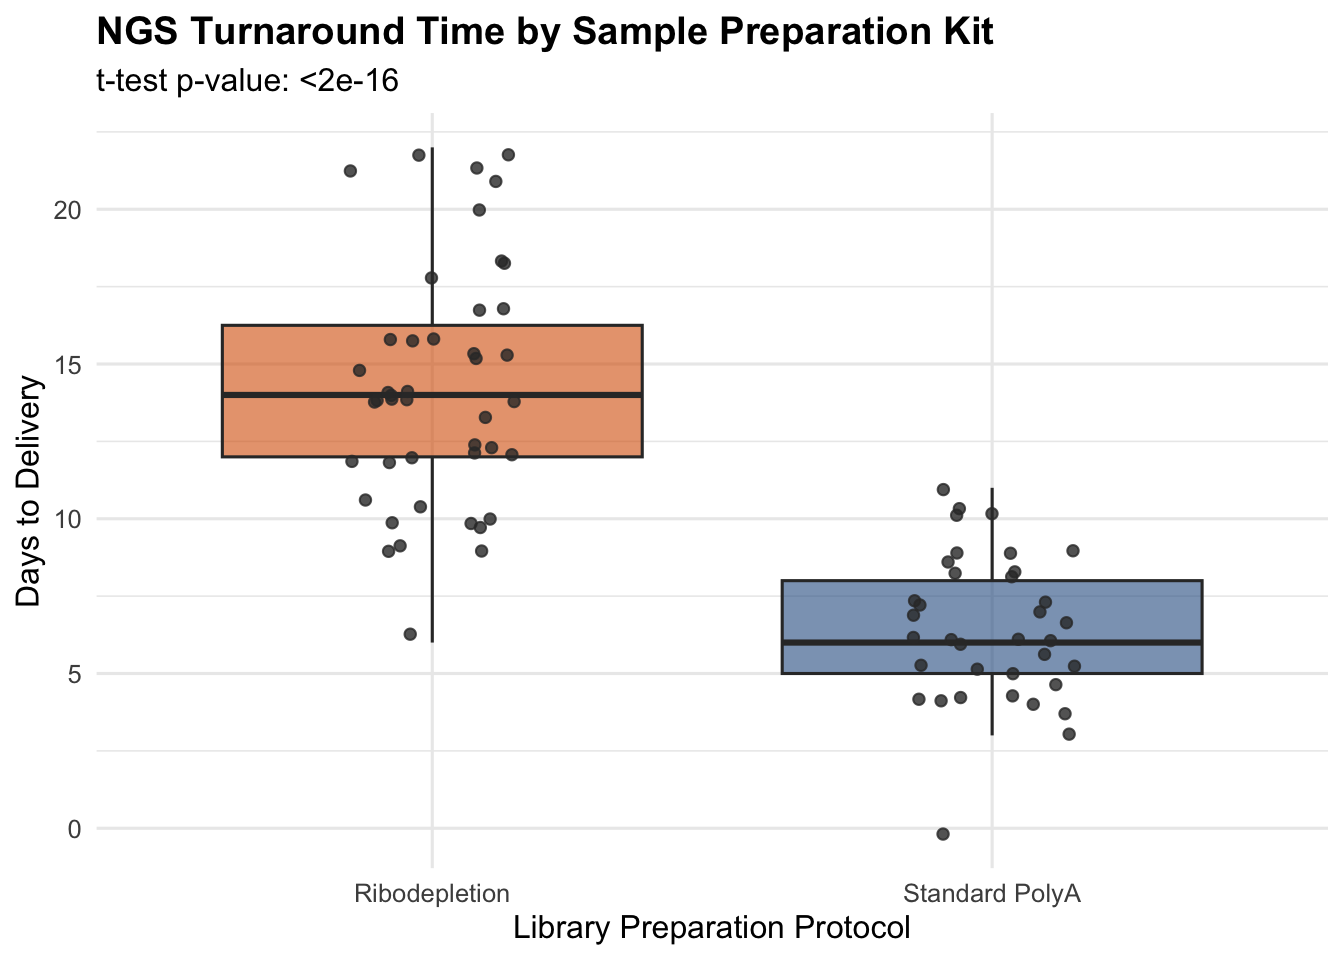
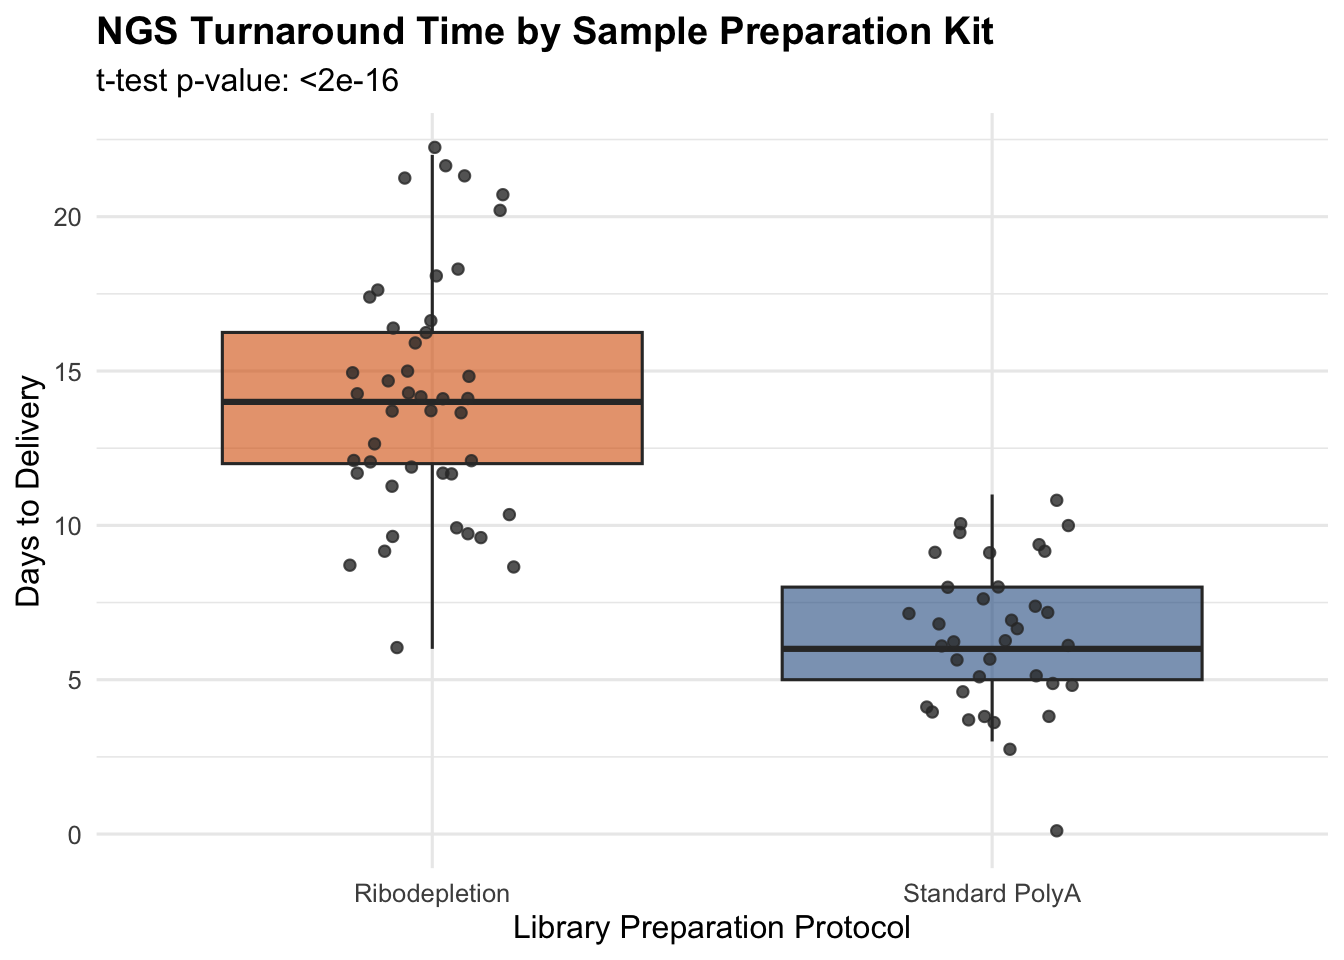
Built site for gh-pages

diff --git a/R-coding.html b/R-coding.html
@@ -7,7 +7,7 @@
 <meta name="viewport" content="width=device-width, initial-scale=1.0, user-scalable=yes">
 
 <meta name="author" content="Devon J. Boland">
-<meta name="dcterms.date" content="2026-10-01">
+<meta name="dcterms.date" content="2026-10-06">
 
 <title>3&nbsp; R Syntax &amp; Core Data Structures – SC3 ABRF R Workshop</title>
 <style>
@@ -228,7 +228,7 @@ pre > code.sourceCode > span > a:first-child::before { text-decoration: underlin
     <div>
     <div class="quarto-title-meta-heading">Published</div>
     <div class="quarto-title-meta-contents">
-      <p class="date">October 1, 2026</p>
+      <p class="date">October 6, 2026</p>
     </div>
   </div>
   
@@ -243,18 +243,18 @@ pre > code.sourceCode > span > a:first-child::before { text-decoration: underlin
 <p><a href="./R-coding.html" class="btn btn-primary">Download this Notebook (R-Introductions.qmd)</a></p>
 <section id="r-basics" class="level2" data-number="3.1">
 <h2 data-number="3.1" class="anchored" data-anchor-id="r-basics"><span class="header-section-number">3.1</span> R Basics</h2>
-<p>Congratualtions, you have made it through the through the fundamentals of setting up your own personal R environemnt, and we have hardly done any coding. If you have managed to not fall asleep so far, get ready for the excitement of writting code! <strong>Join the dark side of the lab, and feel it’s power</strong> (<em>read in a legally distinct and not trademarkable character’s voice</em>)!</p>
+<p>Congratulations, you have made it through the through the fundamentals of setting up your own personal R environment, and we have hardly done any coding. If you have managed to not fall asleep so far, get ready for the excitement of writing code! <strong>Join the dark side of the lab, and feel it’s power</strong> (<em>read in a legally distinct and not trademarkable character’s voice</em>)!</p>
 <section id="hello-world" class="level3" data-number="3.1.1">
 <h3 data-number="3.1.1" class="anchored" data-anchor-id="hello-world"><span class="header-section-number">3.1.1</span> Hello, world!</h3>
-<p>In all seriousness though, coding can be as simple or complex as you make it. For instance, we are going to begin by writing the first program everyone learns in any programming langueage, printing the <code>Hello, world!</code> statement. We will use the <code>print()</code> function from base R. We will go over each part of it shortly. Begin, typing the following in your R script:</p>
+<p>In all seriousness though, coding can be as simple or complex as you make it. For instance, we are going to begin by writing the first program everyone learns in any programming language, printing the <code>Hello, world!</code> statement. We will use the <code>print()</code> function from base R. We will go over each part of it shortly. Begin, typing the following in your R script:</p>
 <div class="cell">
 <div class="code-copy-outer-scaffold"><div class="sourceCode cell-code" id="cb1"><pre class="sourceCode r code-with-copy"><code class="sourceCode r"><span id="cb1-1"><a href="#cb1-1" aria-hidden="true" tabindex="-1"></a><span class="fu">print</span>(<span class="st">"Hello, world!"</span>)</span></code></pre></div><button title="Copy to Clipboard" class="code-copy-button"><i class="bi"></i></button></div>
 <div class="cell-output cell-output-stdout">
 <pre><code>[1] "Hello, world!"</code></pre>
 </div>
 </div>
-<p>As you can see the statement “Hello, world!” was output (or printed, hence the function name) below in our R console. We called the <code>print()</code> function which takes as input a string (text), number, or even a variable as input. This <code>print()</code> function is used a lot across many programming langueages. You have commonly encountered it in your day-to-day jobs. When coding it is often used to print a status update, error message, warning, etc. to the user as feedback so we aren’t just starting at a static screen wondering if something has happened or we have messed up.</p>
-<p>Now we are going to add a layer to our <code>print()</code> code from earlier. What if we wanted to store a message to ourselves, say remember to drink our coffee while it is still hot, and view it later. We achieve this by creating a <code>vairable</code> and casting (storing) a value in it using the <code>&lt;-</code> operator.</p>
+<p>As you can see the statement “Hello, world!” was output (or printed, hence the function name) below in our R console. We called the <code>print()</code> function which takes as input a string (text), number, or even a variable as input. This <code>print()</code> function is used a lot across many programming languages. You have commonly encountered it in your day-to-day jobs. When coding it is often used to print a status update, error message, warning, etc. to the user as feedback so we aren’t just starting at a static screen wondering if something has happened or we have messed up.</p>
+<p>Now we are going to add a layer to our <code>print()</code> code from earlier. What if we wanted to store a message to ourselves, say remember to drink our coffee while it is still hot, and view it later. We achieve this by creating a <code>variable</code> and casting (storing) a value in it using the <code>&lt;-</code> operator.</p>
 <div class="cell">
 <div class="code-copy-outer-scaffold"><div class="sourceCode cell-code" id="annotated-cell-2"><pre class="sourceCode r code-annotation-code code-with-copy code-annotated"><code class="sourceCode r"><a class="code-annotation-anchor" data-target-cell="annotated-cell-2" data-target-annotation="1" onclick="event.preventDefault();">1</a><span id="annotated-cell-2-1" class="code-annotation-target"><a href="#annotated-cell-2-1" aria-hidden="true" tabindex="-1"></a>note <span class="ot">&lt;-</span> <span class="st">"Remember, to drink your coffee, while it is hot!"</span></span>
 <span id="annotated-cell-2-2"><a href="#annotated-cell-2-2" aria-hidden="true" tabindex="-1"></a><span class="fu">print</span>(<span class="st">"Here we are going to print our note below:"</span>)</span>
@@ -263,7 +263,7 @@ pre > code.sourceCode > span > a:first-child::before { text-decoration: underlin
 <dl class="code-annotation-container-grid">
 <dt data-target-cell="annotated-cell-2" data-target-annotation="1">1</dt>
 <dd>
-<span data-code-cell="annotated-cell-2" data-code-lines="1" data-code-annotation="1">this line stores our message about our coffee into the vaiable “note”.</span>
+<span data-code-cell="annotated-cell-2" data-code-lines="1" data-code-annotation="1">this line stores our message about our coffee into the variable “note”.</span>
 </dd>
 <dt data-target-cell="annotated-cell-2" data-target-annotation="2">2</dt>
 <dd>
@@ -280,7 +280,7 @@ pre > code.sourceCode > span > a:first-child::before { text-decoration: underlin
 </section>
 <section id="vector-the-simplest-way-to-store-multiple-data" class="level3" data-number="3.1.2">
 <h3 data-number="3.1.2" class="anchored" data-anchor-id="vector-the-simplest-way-to-store-multiple-data"><span class="header-section-number">3.1.2</span> Vector, the simplest way to store multiple data</h3>
-<p>Above we stored our first data, a single string into the variable <code>note</code>. But what if we wanted to store a a list of numbers? In R, a series of data is called a <strong>vector</strong> (in R we also have list objects, which behave differently but can look similar). We begin a vector using the <code>c()</code> and separating elements in the vector with a <strong>comma</strong>. Below, let’s create a vector of numbers 1-5.</p>
+<p>Above we stored our first data, a single string into the variable <code>note</code>. But what if we wanted to store a list of numbers? In R, a series of data is called a <strong>vector</strong> (in R we also have list objects, which behave differently but can look similar). We begin a vector using the <code>c()</code> and separating elements in the vector with a <strong>comma</strong>. Below, let’s create a vector of numbers 1-5.</p>
 <div class="cell">
 <div class="code-copy-outer-scaffold"><div class="sourceCode cell-code" id="cb4"><pre class="sourceCode r code-with-copy"><code class="sourceCode r"><span id="cb4-1"><a href="#cb4-1" aria-hidden="true" tabindex="-1"></a>num_vec <span class="ot">&lt;-</span> <span class="fu">c</span>(<span class="dv">1</span>,<span class="dv">2</span>,<span class="dv">3</span>,<span class="dv">4</span>,<span class="dv">5</span>)</span>
 <span id="cb4-2"><a href="#cb4-2" aria-hidden="true" tabindex="-1"></a><span class="fu">print</span>(num_vec)</span></code></pre></div><button title="Copy to Clipboard" class="code-copy-button"><i class="bi"></i></button></div>
@@ -289,7 +289,7 @@ pre > code.sourceCode > span > a:first-child::before { text-decoration: underlin
 </div>
 </div>
 <p>As you can see, we stored a list of the numbers 1-5 in the variable called <code>num_vec</code>. Unlike before, our variable now stored as numbers, specifically as integers. You’ll notice how we dropped the <code>""</code> marks as we intended to store numbers instead of strings.</p>
-<p>However we can mix data types in vectors, lets see what happends when we try to mix numbers and strings:</p>
+<p>However we can mix data types in vectors, lets see what happens when we try to mix numbers and strings:</p>
 <div class="cell">
 <div class="code-copy-outer-scaffold"><div class="sourceCode cell-code" id="cb6"><pre class="sourceCode r code-with-copy"><code class="sourceCode r"><span id="cb6-1"><a href="#cb6-1" aria-hidden="true" tabindex="-1"></a>mix_vec <span class="ot">&lt;-</span> <span class="fu">c</span>(<span class="dv">1</span>, <span class="st">"the"</span>, <span class="dv">2</span>, <span class="st">"cow"</span>, <span class="dv">3</span>, <span class="st">"moos"</span>)</span>
 <span id="cb6-2"><a href="#cb6-2" aria-hidden="true" tabindex="-1"></a><span class="fu">print</span>(mix_vec)</span></code></pre></div><button title="Copy to Clipboard" class="code-copy-button"><i class="bi"></i></button></div>
@@ -300,7 +300,7 @@ pre > code.sourceCode > span > a:first-child::before { text-decoration: underlin
 </section>
 <section id="dataframes-rs-excel-table-data-object" class="level3" data-number="3.1.3">
 <h3 data-number="3.1.3" class="anchored" data-anchor-id="dataframes-rs-excel-table-data-object"><span class="header-section-number">3.1.3</span> DataFrames: R’s Excel Table Data Object</h3>
-<p>Vetors are very useful and a core object type in R. Many other useful objects are built on top of vectors. However, the most common type of data we deal with in R will be DataFrames/Tibbles. DataFrames (or the modern equivalent Tibbles, used in tidyverse) are the R equivalent of tables in Excel.</p>
+<p>Vectors are very useful and a core object type in R. Many other useful objects are built on top of vectors. However, the most common type of data we deal with in R will be DataFrames/Tibbles. DataFrames (or the modern equivalent Tibbles, used in tidyverse) are the R equivalent of tables in Excel.</p>
 <p>Tibbles are not included in base R, like Dataframes are, so here we need to attach the tidyverse package we installed earlier.Copy and run the following code to generate a dataframe:</p>
 <div class="cell">
 <div class="code-copy-outer-scaffold"><div class="sourceCode cell-code" id="cb8"><pre class="sourceCode r code-with-copy"><code class="sourceCode r"><span id="cb8-1"><a href="#cb8-1" aria-hidden="true" tabindex="-1"></a><span class="fu">library</span>(tidyverse)</span></code></pre></div><button title="Copy to Clipboard" class="code-copy-button"><i class="bi"></i></button></div>
@@ -371,7 +371,7 @@ pre > code.sourceCode > span > a:first-child::before { text-decoration: underlin
 [1] "name"  "value"</code></pre>
 </div>
 </div>
-<p>Above we can see that, the row indexes are numbers, and our column names are “name” and “value”. We can use the <code>rownames()</code> and <code>colnames()</code> functions to replace the old labels with new onces if we wanted to as well. Next lets see how we print specific rows:</p>
+<p>Above we can see that, the row indexes are numbers, and our column names are “name” and “value”. We can use the <code>rownames()</code> and <code>colnames()</code> functions to replace the old labels with new ones if we wanted to as well. Next lets see how we print specific rows:</p>
 <div class="cell">
 <div class="code-copy-outer-scaffold"><div class="sourceCode cell-code" id="cb13"><pre class="sourceCode r code-with-copy"><code class="sourceCode r"><span id="cb13-1"><a href="#cb13-1" aria-hidden="true" tabindex="-1"></a><span class="fu">print</span>(combined_df[<span class="dv">1</span>,])</span></code></pre></div><button title="Copy to Clipboard" class="code-copy-button"><i class="bi"></i></button></div>
 <div class="cell-output cell-output-stdout">
@@ -394,7 +394,7 @@ pre > code.sourceCode > span > a:first-child::before { text-decoration: underlin
 </section>
 <section id="importing-tabularcsv-data" class="level4" data-number="3.1.3.2">
 <h4 data-number="3.1.3.2" class="anchored" data-anchor-id="importing-tabularcsv-data"><span class="header-section-number">3.1.3.2</span> Importing Tabular/CSV Data</h4>
-<p>Now that we understand the structure of dataframes/tibbles in R, let’s learn how to import our CSV/TSV/Excel-formatted data files as dataframes into R. Here we are going to leverage the the <code>read.csv()</code> from base R. Later we will work on data we pull from <a href="https://my.ilabsolutions.com/account/login">iLab</a>, for now please downlaod a sample data set from <a href="https://github.com/DevonJBoland/ABRF-SC3-R_Workshop/blob/main/data/fy26_costs.csv">here</a>. The <code>read.csv()</code> has a few parameters. We can convenitley see a quick help guide on any function of interest by using the <code>?</code> before any function call try it first below:</p>
+<p>Now that we understand the structure of dataframes/tibbles in R, let’s learn how to import our CSV/TSV/Excel-formatted data files as dataframes into R. Here we are going to leverage <code>read.csv()</code> from base R. Later we will work on data we pull from <a href="https://my.ilabsolutions.com/account/login">iLab</a>, for now please downlaod a sample data set from <a href="https://github.com/DevonJBoland/ABRF-SC3-R_Workshop/blob/main/data/fy26_costs.csv">here</a>. The <code>read.csv()</code> has a few parameters. We can conveniently see a quick help guide on any function of interest by using the <code>?</code> before any function call try it first below:</p>
 <div class="cell">
 <div class="code-copy-outer-scaffold"><div class="sourceCode cell-code" id="annotated-cell-12"><pre class="sourceCode r code-annotation-code code-with-copy code-annotated"><code class="sourceCode r"><span id="annotated-cell-12-1"><a href="#annotated-cell-12-1" aria-hidden="true" tabindex="-1"></a>?<span class="fu">read.csv</span>()</span>
 <a class="code-annotation-anchor" data-target-cell="annotated-cell-12" data-target-annotation="1" onclick="event.preventDefault();">1</a><span id="annotated-cell-12-2" class="code-annotation-target"><a href="#annotated-cell-12-2" aria-hidden="true" tabindex="-1"></a>csv_data <span class="ot">&lt;-</span> <span class="fu">read.csv</span>(<span class="st">"data/fy26_costs.csv"</span>)</span>
@@ -405,7 +405,7 @@ pre > code.sourceCode > span > a:first-child::before { text-decoration: underlin
 <dl class="code-annotation-container-grid">
 <dt data-target-cell="annotated-cell-12" data-target-annotation="1">1</dt>
 <dd>
-<span data-code-cell="annotated-cell-12" data-code-lines="2" data-code-annotation="1">Here we only need to pass the path to our file, in some cases, you may need to specify which colums you would like to keep, and/or skip loading into memory.</span>
+<span data-code-cell="annotated-cell-12" data-code-lines="2" data-code-annotation="1">Here we only need to pass the path to our file, in some cases, you may need to specify which columns you would like to keep, and/or skip loading into memory.</span>
 </dd>
 <dt data-target-cell="annotated-cell-12" data-target-annotation="2">2</dt>
 <dd>
@@ -458,7 +458,7 @@ pre > code.sourceCode > span > a:first-child::before { text-decoration: underlin
 12 Decemeber 14897  42000   27103</code></pre>
 </div>
 </div>
-<p>We have quickly calculated our total revenue for FY26. But this is something that can be readily done in excel with a similiar equation and then a click and drag down. However what if we wanted some quick statistics for each of our columns:</p>
+<p>We have quickly calculated our total revenue for FY26. But this is something that can be readily done in excel with a similar equation and then a click and drag down. However what if we wanted some quick statistics for each of our columns:</p>
 <div class="cell">
 <div class="code-copy-outer-scaffold"><div class="sourceCode cell-code" id="cb21"><pre class="sourceCode r code-with-copy"><code class="sourceCode r"><span id="cb21-1"><a href="#cb21-1" aria-hidden="true" tabindex="-1"></a><span class="fu">summary</span>(csv_data)</span></code></pre></div><button title="Copy to Clipboard" class="code-copy-button"><i class="bi"></i></button></div>
 <div class="cell-output cell-output-stdout">
@@ -471,7 +471,7 @@ pre > code.sourceCode > span > a:first-child::before { text-decoration: underlin
                 Max.   :42000   Max.   :185467   Max.   :175264  </code></pre>
 </div>
 </div>
-<p>The <code>summary()</code> function take a dataframe or vector as input and quickly output basic statistical analysis of the distribution of the data. You’ll notice that our Month column is a columm filled with strings. Instead we get an overview of the length, number of unique identities, number of blank entries, and the minimum and maximum number of characters in a row. All other columns contain numerical values and so we get quick distribution summaries of our data.</p>
+<p>The <code>summary()</code> function take a dataframe or vector as input and quickly output basic statistical analysis of the distribution of the data. You’ll notice that our Month column is a column filled with strings. Instead we get an overview of the length, number of unique identities, number of blank entries, and the minimum and maximum number of characters in a row. All other columns contain numerical values and so we get quick distribution summaries of our data.</p>
 <p>As a final example of what we can do with R combining everything we have gone over in this notebook. Lets print a message telling us the sum total of our costs, sales, and revenue numbers for FY26:</p>
 <div class="cell">
 <div class="code-copy-outer-scaffold"><div class="sourceCode cell-code" id="cb23"><pre class="sourceCode r code-with-copy"><code class="sourceCode r"><span id="cb23-1"><a href="#cb23-1" aria-hidden="true" tabindex="-1"></a><span class="fu">print</span>(<span class="fu">paste0</span>(<span class="st">"Total Costs: $"</span>, <span class="fu">sum</span>(csv_data<span class="sc">$</span>Costs)))</span></code></pre></div><button title="Copy to Clipboard" class="code-copy-button"><i class="bi"></i></button></div>
@@ -487,7 +487,7 @@ pre > code.sourceCode > span > a:first-child::before { text-decoration: underlin
 <pre><code>[1] "Total Revenue: $852571"</code></pre>
 </div>
 </div>
-<p>Now that we have gotten some exposure on loading, manipulating, and messing around with data in R. Let’s move on to the a real-world example in the next section!</p>
+<p>Now that we have gotten some exposure on loading, manipulating, and messing around with data in R. Let’s move on to a real-world example in the next section!</p>
 
 
 </section>
